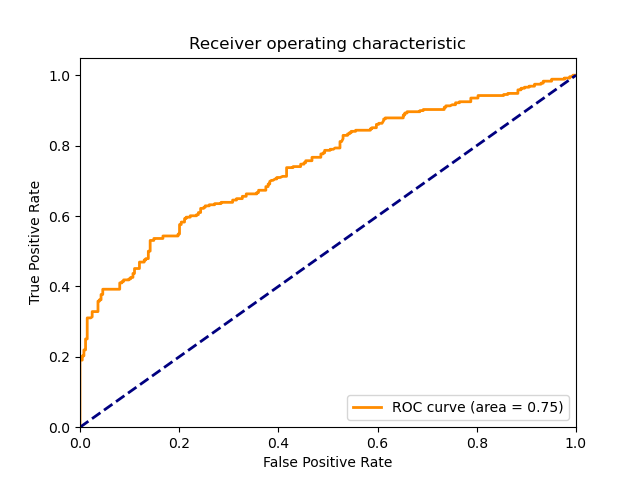
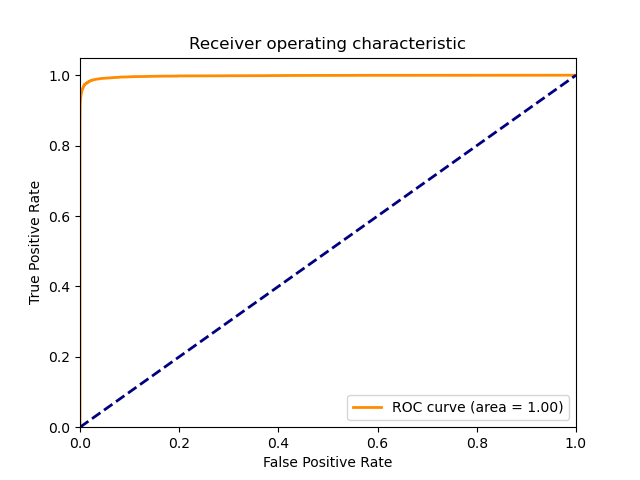
mobilefacenet_two_branch_v4_ cbam

diff --git a/nets/mobilefacenet_two_branch_v4.py b/nets/mobilefacenet_two_branch_v4.py
@@ -1,0 +1,203 @@
+import torch
+from torch import nn
+from torch.nn import BatchNorm2d, Conv2d, Module, PReLU, Sequential
+
+class ChannelAttention(nn.Module):
+    def __init__(self, in_planes, ratio=16):
+        super(ChannelAttention, self).__init__()
+        self.avg_pool = nn.AdaptiveAvgPool2d(1)
+        self.max_pool = nn.AdaptiveMaxPool2d(1)
+
+        self.fc = nn.Sequential(nn.Conv2d(in_planes, in_planes // ratio, 1, bias=True),
+                                nn.ReLU(),
+                                nn.Conv2d(in_planes // ratio, in_planes, 1, bias=True))
+        self.sigmoid = nn.PReLU()
+
+    def forward(self, x):
+        avg_out = self.fc(self.avg_pool(x))
+        max_out = self.fc(self.max_pool(x))
+        out = avg_out + max_out
+        return self.sigmoid(out)
+
+
+class SpatialAttention(nn.Module):
+    def __init__(self, kernel_size=7):
+        super(SpatialAttention, self).__init__()
+
+        self.conv1 = nn.Conv2d(2, 1, kernel_size, padding=kernel_size // 2, bias=True)
+        self.sigmoid = nn.PReLU()
+
+    def forward(self, x):
+        avg_out = torch.mean(x, dim=1, keepdim=True)
+        max_out, _ = torch.max(x, dim=1, keepdim=True)
+        x = torch.cat([avg_out, max_out], dim=1)
+        x = self.conv1(x)
+        return self.sigmoid(x)
+
+class cbam(Module):
+    def __init__(self, planes, ratio):
+        super(cbam, self).__init__()
+        self.ca = ChannelAttention(planes, ratio)
+        self.sa = SpatialAttention(kernel_size=7)
+
+    def forward(self, x):
+        # ca_map = self.ca(x)
+        x = self.ca(x) * x  # 广播机制
+        # sa_map = self.sa(x)
+        x = self.sa(x) * x  # 广播机制
+        return x
+
+class Flatten(Module):
+    def forward(self, input):
+        return input.view(input.size(0), -1)
+
+class Linear_block(Module):
+    def __init__(self, in_c, out_c, kernel=(1, 1), stride=(1, 1), padding=(0, 0), groups=1):
+        super(Linear_block, self).__init__()
+        self.conv   = Conv2d(in_c, out_channels=out_c, kernel_size=kernel, groups=groups, stride=stride, padding=padding, bias=False)
+        self.bn     = BatchNorm2d(out_c)
+    def forward(self, x):
+        x = self.conv(x)
+        x = self.bn(x)
+        return x
+
+class Residual_Block(Module):
+     def __init__(self, in_c, out_c, residual = False, kernel=(3, 3), stride=(2, 2), padding=(1, 1), groups=1):
+        super(Residual_Block, self).__init__()
+        self.conv       = Conv_block(in_c, out_c=groups, kernel=(1, 1), padding=(0, 0), stride=(1, 1))
+        self.conv_dw    = Conv_block(groups, groups, groups=groups, kernel=kernel, padding=padding, stride=stride)
+        self.project    = Linear_block(groups, out_c, kernel=(1, 1), padding=(0, 0), stride=(1, 1))
+        self.residual   = residual
+     def forward(self, x):
+        if self.residual:
+            short_cut = x
+        x = self.conv(x)
+        x = self.conv_dw(x)
+        x = self.project(x)
+        if self.residual:
+            output = short_cut + x
+        else:
+            output = x
+        return output
+
+class Residual(Module):
+    def __init__(self, c, num_block, groups, kernel=(3, 3), stride=(1, 1), padding=(1, 1)):
+        super(Residual, self).__init__()
+        modules = []
+        for _ in range(num_block):
+            modules.append(Residual_Block(c, c, residual=True, kernel=kernel, padding=padding, stride=stride, groups=groups))
+        self.model = Sequential(*modules)
+    def forward(self, x):
+        return self.model(x)
+
+class Conv_block(Module):
+    def __init__(self, in_c, out_c, kernel=(1, 1), stride=(1, 1), padding=(0, 0), groups=1):
+        super(Conv_block, self).__init__()
+        self.conv   = Conv2d(in_c, out_channels=out_c, kernel_size=kernel, groups=groups, stride=stride, padding=padding, bias=False)
+        self.bn     = BatchNorm2d(out_c)
+        self.prelu  = PReLU(out_c)
+    def forward(self, x):
+        x = self.conv(x)
+        x = self.bn(x)
+        x = self.prelu(x)
+        return x
+
+class after_feature(Module):
+    def __init__(self,embedding_size,kernel_size,ifcbam = False):
+        super(after_feature, self).__init__()
+        self.conv_45 = Residual_Block(128, 128, kernel=(3, 3), stride=(2, 2), padding=(1, 1), groups=512)
+        self.conv_5 = Residual(128, num_block=2, groups=256, kernel=(3, 3), stride=(1, 1), padding=(1, 1))
+
+        self.sep = nn.Conv2d(128, 512, kernel_size=1, bias=False)
+        self.sep_bn = nn.BatchNorm2d(512)
+        self.prelu = nn.PReLU(512)
+
+        self.GDC_dw= nn.Conv2d(512, 512, kernel_size=kernel_size, bias=False, groups=512)
+        self.GDC_bn = nn.BatchNorm2d(512)
+
+        self.features = nn.Conv2d(512, embedding_size, kernel_size=1, bias=False)
+        self.last_bn = nn.BatchNorm2d(embedding_size)
+        self.cbam = ifcbam
+        if self.cbam:
+            self.cbam_func = cbam(planes= 128, ratio = 4)
+
+    def forward(self, x):
+
+        if self.cbam:
+            x = self.cbam_func(x)
+        x = self.conv_45(x)
+        x = self.conv_5(x)
+
+        x = self.sep(x)
+        x = self.sep_bn(x)
+        x = self.prelu(x)
+
+        x = self.GDC_dw(x)
+        x = self.GDC_bn(x)
+
+        x = self.features(x)
+        x = self.last_bn(x)
+        return x
+
+class MobileFaceNet(Module):
+    def __init__(self, embedding_size):
+        super(MobileFaceNet, self).__init__()
+        # 112,112,3 -> 56,56,64
+        self.conv1      = Conv_block(3, 64, kernel=(3, 3), stride=(2, 2), padding=(1, 1))
+
+        # 56,56,64 -> 56,56,64
+        self.conv2_dw   = Conv_block(64, 64, kernel=(3, 3), stride=(1, 1), padding=(1, 1), groups=64)
+
+        # 56,56,64 -> 28,28,64
+        self.conv_23    = Residual_Block(64, 64, kernel=(3, 3), stride=(2, 2), padding=(1, 1), groups=128)
+        self.conv_3     = Residual(64, num_block=4, groups=128, kernel=(3, 3), stride=(1, 1), padding=(1, 1))
+
+        # 28,28,64 -> 14,14,128
+        self.conv_34    = Residual_Block(64, 128, kernel=(3, 3), stride=(2, 2), padding=(1, 1), groups=256)
+        self.conv_4     = Residual(128, num_block=6, groups=256, kernel=(3, 3), stride=(1, 1), padding=(1, 1))
+
+        self.after_feature_up = after_feature(embedding_size=64, kernel_size=(4,7),ifcbam=True)
+        self.after_feature_down = after_feature(embedding_size=64, kernel_size=(4, 7),ifcbam=True)
+        self.after_feature_g = after_feature(embedding_size=128, kernel_size=(7,7),ifcbam=True)
+        self.stage1 = nn.Sequential(self.conv1, self.conv2_dw, self.conv_23, self.conv_3, self.conv_34, self.conv_4)
+        self._initialize_weights()
+
+
+    def _initialize_weights(self):
+        for m in self.modules():
+            if isinstance(m, nn.Conv2d):
+                nn.init.kaiming_normal_(m.weight, mode='fan_out', nonlinearity='relu')
+                if m.bias is not None:
+                    m.bias.data.zero_()
+            elif isinstance(m, nn.BatchNorm2d):
+                m.weight.data.fill_(1)
+                m.bias.data.zero_()
+            elif isinstance(m, nn.Linear):
+                nn.init.kaiming_normal_(m.weight, mode='fan_out', nonlinearity='relu')
+                if m.bias is not None:
+                    m.bias.data.zero_()
+                    
+    def forward(self, x):
+        x = self.stage1(x)
+
+        x1, x2 = torch.split(x, 7, dim=2)
+
+        x1 = self.after_feature_up(x1)
+        x2 = self.after_feature_down(x2)
+        xg = self.after_feature_g(x)
+        x_side = torch.cat([x1,x2],1)
+        x = xg + x_side
+        return x
+
+
+def get_mbf_two_branch_v4(embedding_size, pretrained):
+    if pretrained:
+        raise ValueError("No pretrained model for mobilefacenet")
+    return MobileFaceNet(embedding_size)
+
+if __name__ == "__main__":
+    model = get_mbf_two_branch_v4(embedding_size=128,pretrained=False)
+
+    x = torch.zeros([2,3,112,112])
+    out = model(x)
+    print("test")

diff --git a/eval_LFW.py b/eval_LFW.py
@@ -23,7 +23,7 @@ if __name__ == "__main__":
     #   iresnet100
     #   iresnet200
     #--------------------------------------#
-    backbone        = "mobilefacenet"
+    backbone        = "mobilefacenet_two_branch_v3"
     #--------------------------------------#
     #   输入图像大小
     #--------------------------------------#
@@ -31,13 +31,13 @@ if __name__ == "__main__":
     #--------------------------------------#
     #   训练好的权值文件
     #--------------------------------------#
-    model_path      = "result/mobileface-web1o2/ep050-loss7.186-val_loss8.717.pth"
+    model_path      = "result/mobileface-web1o2-two_branch_v3/ep032-loss6.853-val_loss8.570.pth"
     #--------------------------------------#
     #   LFW评估数据集的文件路径
     #   以及对应的txt文件
     #--------------------------------------#
-    lfw_dir_path    = "mfr2"
-    lfw_pairs_path  = "mfr2_pairs.txt"
+    lfw_dir_path    = "lfw"
+    lfw_pairs_path  = "model_data/lfw_pairs_test.txt"
     #--------------------------------------#
     #   评估的批次大小和记录间隔
     #--------------------------------------#

diff --git a/draw_cam.py b/draw_cam.py
@@ -67,10 +67,11 @@ if __name__ == "__main__":
     # --------------------------------------#
     backbone1 = "mobilefacenet"
     model_path1 = "result/mobileface-web1o2/ep050-loss7.186-val_loss8.717.pth"
-    backbone2 = "mobilefacenet_two_branch_v2"
-    model_path2 = "result/mobileface_web1o2_two_branch_v2/ep032-loss6.828-val_loss8.282.pth"
+    backbone2 = "mobilefacenet_two_branch_v3"
+    model_path2 = "result/mobileface-web1o2-two_branch_v3/ep032-loss6.853-val_loss8.570.pth"
     # --------------------------------------#
     #   输入图像大小
+
     # --------------------------------------#
     input_shape = [112, 112, 3]
     # --------------------------------------#
